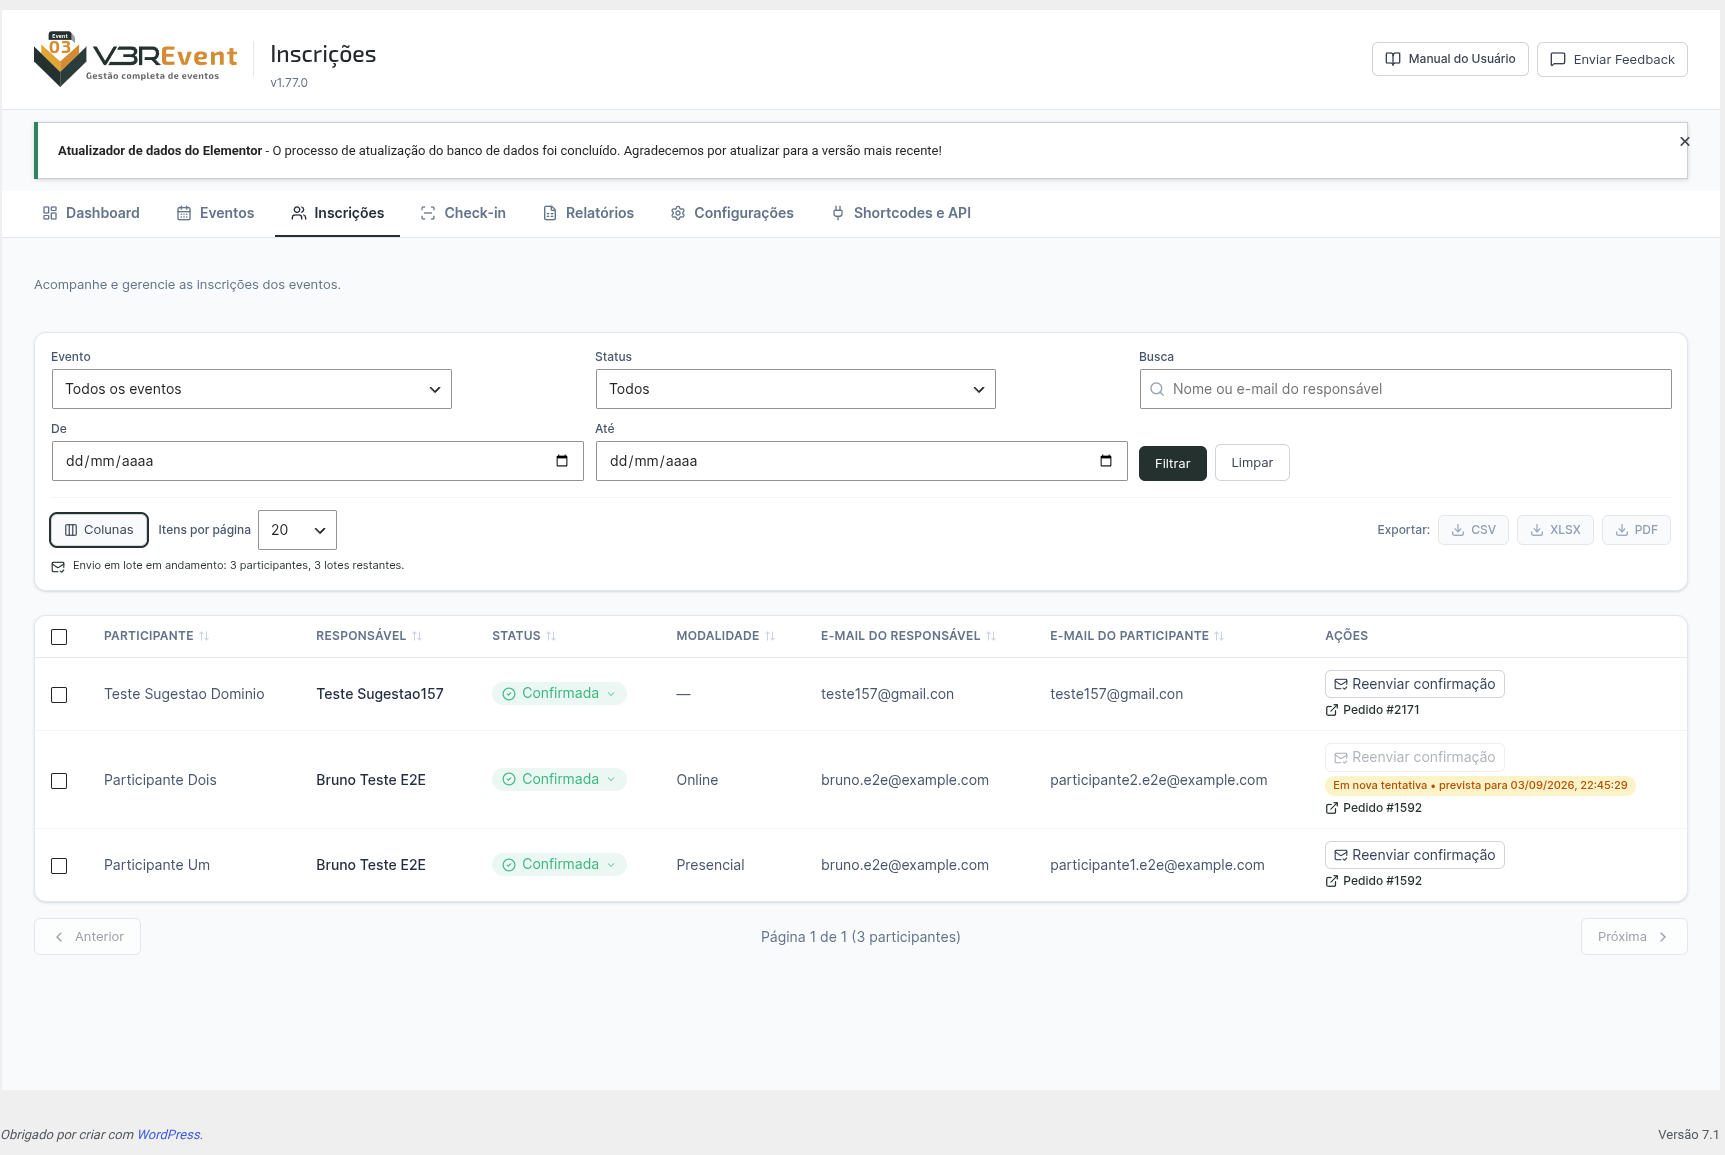
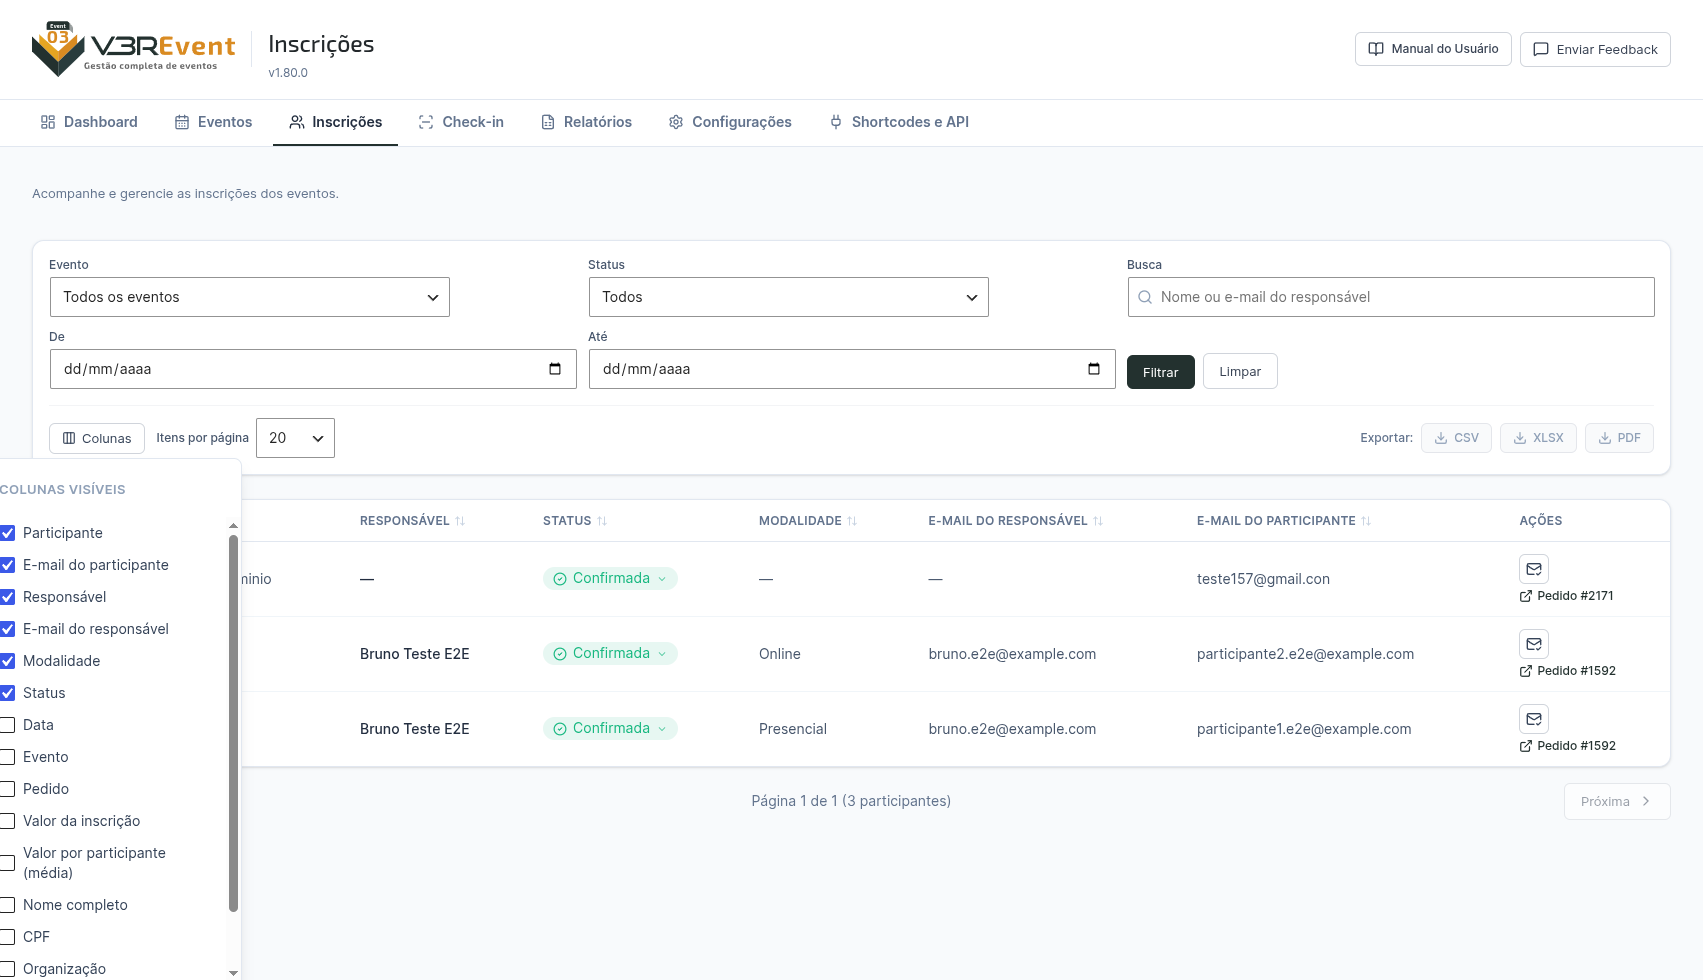
docs(manual): publica 2026-09-04

diff --git a/novidades.md b/novidades.md
@@ -12,6 +12,18 @@ O que mudou no V3REvent, em linguagem simples — **da mais recente para a mais 
 
 ---
 
+## Correção de privacidade na Área do Inscrito
+**v1.79.2 · setembro de 2026**
+
+Quem só participava de um grupo comprado por outra pessoa não via o botão do comprovante — como deve ser, já que ele traz o nome de quem pagou e o valor. Mas a tela mostrava o **código da inscrição** logo ao lado, e esse código é justamente o que abre o comprovante pelo endereço público. Na prática, a regra existia e a própria página entregava o caminho para contorná-la.
+
+Agora o código aparece só para quem fez a inscrição, exatamente como o botão. Quem fez a inscrição continua vendo o código mesmo antes do pagamento ser confirmado — é o número que ele usa para falar com você. **Nenhuma ação é necessária da sua parte**; quem já tinha a versão anterior instalada passa a se comportar assim ao atualizar.
+
+## O shortcode da Área do Inscrito na lista de shortcodes
+**v1.79.1 · setembro de 2026**
+
+A Área do Inscrito nasceu funcionando, mas o shortcode dela não aparecia em **Shortcodes e API** — e essa lista é onde você descobre o que pode colar numa página. Agora `[v3revent_area_inscrito]` está lá, com a explicação de que a página já é criada sozinha e de que o shortcode serve só para montá-la em outro endereço. Veja **[Shortcodes e API](/modulos/shortcodes-e-api/)**.
+
 ## Área do Inscrito: quem se inscreveu reencontra tudo sozinho
 **v1.79.0 · setembro de 2026**
 
@@ -23,6 +35,9 @@ O que aparece depende de como a pessoa participou: quem **fez a inscrição** (i
 **v1.79.0 · setembro de 2026**
 
 A aba **Credencial** do editor de evento ganhou um controle **Oferecer credencial para este evento**, no mesmo formato do controle de emissão do certificado. Desligado, a credencial deixa de existir por completo para aquele evento: some da Área do Inscrito, o link público para de responder e ela não sai mais anexada no e-mail. **Nasce ligado** em todo evento — os que já existiam e os novos — então nada muda para quem não mexer. Veja **[Editor de evento → Credencial](/modulos/editor-evento/#credencial)**.
+
+{: .note }
+> **v1.80.0** saiu sem novidades para você: foi uma mudança interna, em que a sugestão de correção de e-mail passou a vir da biblioteca compartilhada dos plugins da V3RTECH, em vez de uma cópia própria do V3REvent. O comportamento na tela é o mesmo.
 
 ---
 

diff --git a/modulos/inscricoes.md b/modulos/inscricoes.md
@@ -39,9 +39,6 @@ Há também um **link para o pedido no WooCommerce**, para conferir o pagamento 
 
 ![Seletor de colunas aberto, com a opção "E-mail do participante", e o seletor de itens por página ao lado](/assets/screenshots/inscricoes-colunas-itens-pagina.png)
 
-{: .note }
-> *Print pendente desta tela (barra com o botão Colunas e o seletor de itens por página) — depende de sessão autenticada no painel. Será acrescentado após a captura.*
-
 O botão **Colunas**, acima da tabela, abre a lista de colunas disponíveis — incluindo qualquer **campo do formulário** que o evento tenha (por exemplo, Modalidade ou Organização) — para você marcar as que quer ver. A escolha fica **salva por usuário**: da próxima vez que você abrir a tela, continua do jeito que deixou.
 
 Por padrão, a lista já traz o **e-mail do participante** ao lado do e-mail do responsável — antes só o e-mail de quem fez a inscrição aparecia, e conferir se um participante específico digitou o e-mail certo exigia abrir o pedido. Se o seu evento tiver um campo de e-mail com outro nome (ou nenhum), a coluna simplesmente fica vazia para aquele evento, sem quebrar nada.
@@ -70,14 +67,11 @@ Acima da tabela, escolha quantos participantes aparecem por página: **20, 50, 1
 
 Quando um participante diz que não recebeu o e-mail de confirmação — foi para o spam, digitou o e-mail errado e já corrigiu, ou simplesmente sumiu —, você reenvia direto da lista, sem precisar pedir para a pessoa se inscrever de novo.
 
-{: .note }
-> *Print pendente desta tela — depende de sessão autenticada no painel. Será acrescentado após a captura.*
-
 ### Reenvio individual
 
-![Lista de inscritos com o botão "Reenviar confirmação" em cada linha e a barra de ação em lote com participantes selecionados](/assets/screenshots/inscricoes-reenvio.png)
+![Lista de inscritos com o ícone de reenvio em cada linha e a barra de ação em lote com participantes selecionados](/assets/screenshots/inscricoes-reenvio.png)
 
-Na coluna de ações de cada participante, clique em **Reenviar confirmação**. O envio é imediato: a tela mostra na hora se foi enviado ou recusado.
+Na coluna de ações de cada participante, clique no **ícone de envelope**. Passe o mouse sobre ele para confirmar que é o reenvio antes de clicar. O envio é imediato: a tela mostra na hora se foi enviado ou recusado.
 
 Nem toda linha pode receber reenvio:
 

diff --git a/modulos/area-do-inscrito.md b/modulos/area-do-inscrito.md
@@ -33,7 +33,7 @@ Com a Área do Inscrito, a pessoa resolve isso sozinha, a qualquer hora, sem dep
 O que aparece depende de **como ela participou** daquela inscrição — o sistema reconhece dois papéis possíveis para o mesmo e-mail, e nunca mistura os dois:
 
 - **Quem fez a inscrição (o responsável/pagador)** — inclusive quando inscreveu um grupo inteiro num único pedido — vê **o comprovante do pagamento** e a **credencial e o certificado de todos os participantes daquele pedido**, os dela e os dos colegas.
-- **Quem só participa** — foi incluído num grupo que outra pessoa comprou e pagou — vê **apenas a própria credencial e o próprio certificado**. Não vê os colegas de grupo, nem o comprovante, **nem o código da inscrição** (é a chave da rota pública do comprovante, então também fica de fora — só aparece para quem tem o gate de responsável).
+- **Quem só participa** — foi incluído num grupo que outra pessoa comprou e pagou — vê **apenas a própria credencial e o próprio certificado**. Não vê os colegas de grupo, nem o comprovante, **nem o código da inscrição** — o código some junto porque é ele que abre o comprovante para quem o tem em mãos.
 
 ![Área do inscrito para quem fez a inscrição de um grupo — vê o comprovante e a credencial de todos os participantes](/assets/screenshots/area-inscrito-responsavel-grupo.png)
 
@@ -82,4 +82,4 @@ Quem gerencia o evento **não vê nem monta nada** a partir desta tela — ela n
 
 - A página é marcada como **não indexável** para buscadores (ela lida com dado pessoal, então não deve aparecer em busca).
 - Um pedido de exclusão de dados (LGPD) apaga também os links de acesso daquele e-mail, mesmo que a pessoa nunca tenha se inscrito em nada.
-- Assunto e corpo do e-mail de acesso são editáveis, do mesmo jeito que os demais e-mails automáticos do plugin — veja **[Configurações → E-mails](/modulos/configuracoes/)**.
+- O e-mail de acesso sai com um texto pronto; diferente dos demais e-mails automáticos do plugin, ele **ainda não pode ser personalizado** por você — veja **[Configurações → E-mails](/modulos/configuracoes/)**.

diff --git a/faq.md b/faq.md
@@ -229,8 +229,9 @@ Depende de quem é o dono do e-mail usado para acessar. Quem **fez a inscrição
 (pagou, inclusive de um grupo inteiro) vê o comprovante e a credencial/certificado
 de **todos** os participantes daquele pedido. Quem **só participa** — foi incluído
 num grupo que outra pessoa comprou — vê **apenas a própria** credencial e
-certificado, nunca os colegas, o comprovante ou o **código da inscrição** (é a
-chave que abre o comprovante, então some junto). Não é uma limitação a corrigir:
+certificado, nunca os colegas, o comprovante ou o **código da inscrição** — o
+código some junto porque é ele que abre o comprovante para quem o tem em mãos.
+Não é uma limitação a corrigir:
 é para que o valor pago e os dados dos colegas não fiquem visíveis a quem não
 pagou. Veja **[Área do Inscrito](/modulos/area-do-inscrito/)**.
 </details>

diff --git a/modulos/configuracoes.md b/modulos/configuracoes.md
@@ -34,7 +34,7 @@ Os templates da comunicação automática.
 Os templates aceitam **variáveis** (como o nome do evento, o nome do participante e o **código de inscrição**), exibidas como dica na própria tela. Cada evento pode sobrescrever esses textos.
 
 {: .note }
-> Desde a v1.79.0, a lista de templates inclui também o **e-mail de acesso à Área do Inscrito** (o link enviado a quem pede para reencontrar as próprias inscrições) — editável do mesmo jeito que os demais.
+> O **e-mail de acesso à Área do Inscrito** (o link enviado a quem pede para reencontrar as próprias inscrições) já sai com um texto pronto, mas **ainda não aparece nesta lista para você editar** — ao contrário dos dois templates acima. Se quiser um texto diferente do padrão, fale com o suporte.
 
 ## Aparência
 
